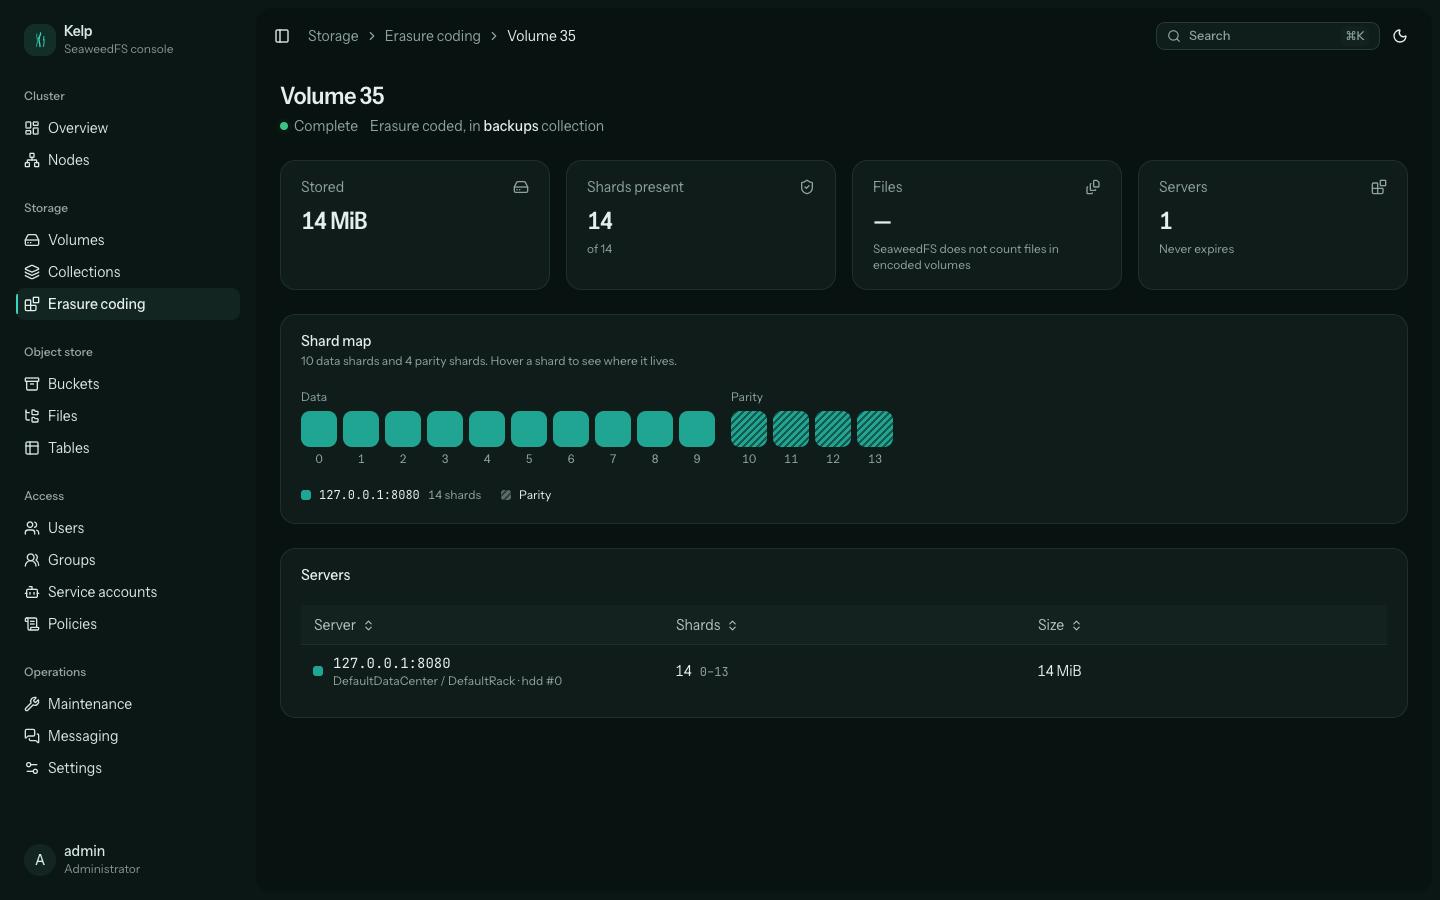
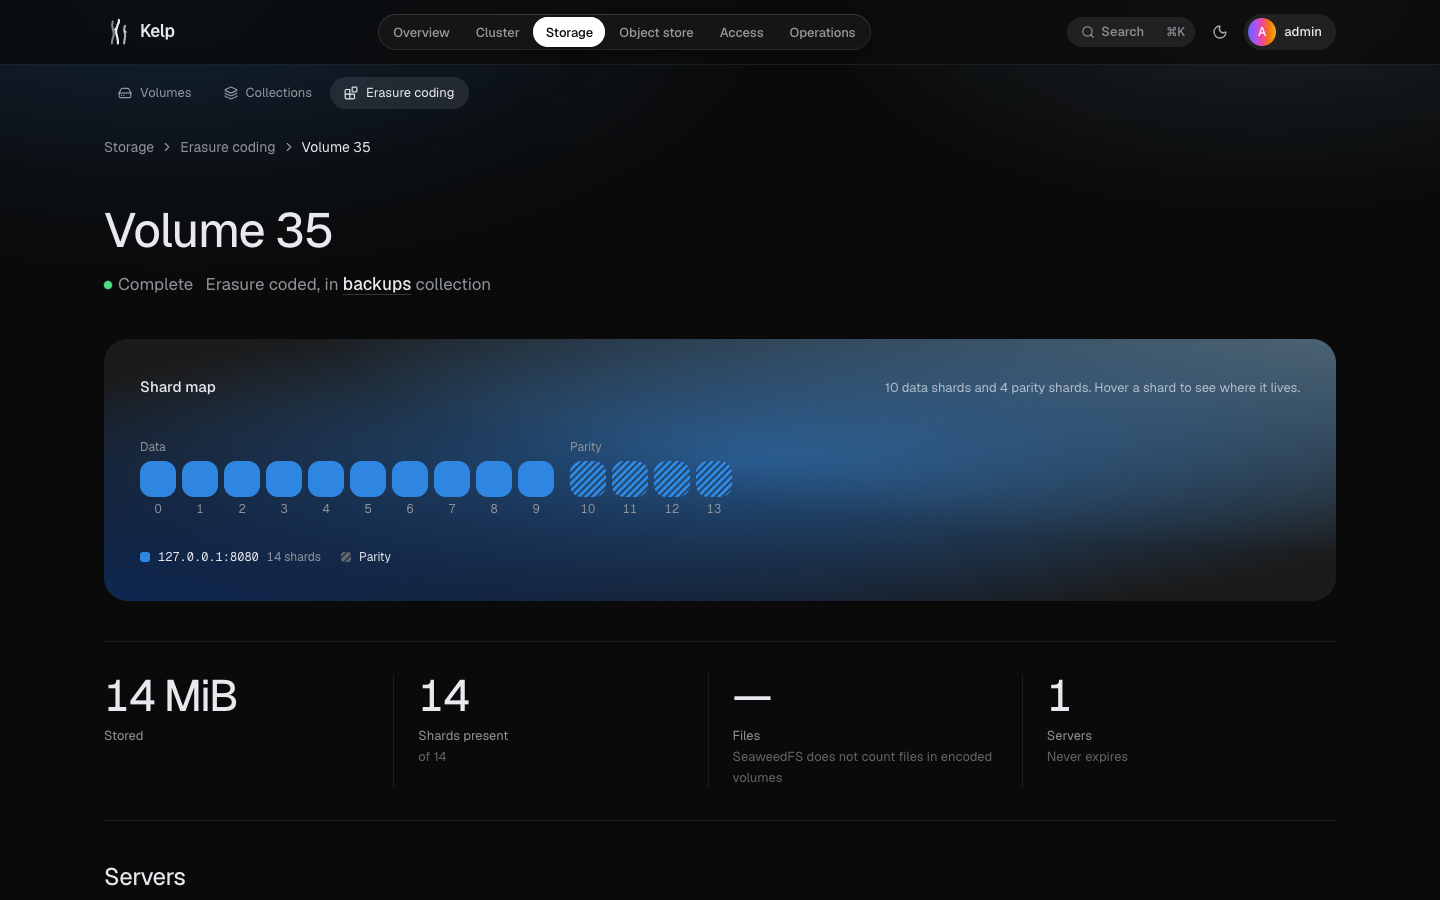
docs: new screenshots and a pointer to DESIGN.md

diff --git a/README.md b/README.md
@@ -17,7 +17,7 @@
 
 ![Kelp overview in the dark theme](docs/screenshots/overview.png)
 
-Kelp manages a SeaweedFS cluster without changing it. It drives the native admin API, the master, the filer and their gRPC services, and adds what the built-in pages lack: one consistent design, sign-in with read-only accounts, safer destructive actions, skeleton loading, light and dark themes, and pages that explain what they show.
+Kelp manages a SeaweedFS cluster without changing it. It drives the native admin API, the master, the filer and their gRPC services, and adds what the built-in pages lack: a design of its own (monochrome, with one aurora color per area; see [DESIGN.md](DESIGN.md)), sign-in with read-only accounts, safer destructive actions, skeleton loading, light and dark themes, and pages that explain what they show.
 
 ## What you can do
 
@@ -38,12 +38,12 @@ Kelp manages a SeaweedFS cluster without changing it. It drives the native admin
     <td><img src="docs/screenshots/erasure-coding.png" alt="Shard map of an erasure-coded volume"></td>
   </tr>
   <tr>
-    <td><img src="docs/screenshots/files.png" alt="File browser with an image preview"></td>
+    <td><img src="docs/screenshots/files.png" alt="File browser with an image preview, light theme"></td>
     <td><img src="docs/screenshots/table.png" alt="Iceberg table schema"></td>
   </tr>
   <tr>
     <td><img src="docs/screenshots/maintenance.png" alt="Maintenance job types"></td>
-    <td><img src="docs/screenshots/user.png" alt="A user's keys, groups and policies"></td>
+    <td><img src="docs/screenshots/user.png" alt="A user's keys, groups and policies, light theme"></td>
   </tr>
 </table>
 
@@ -137,6 +137,7 @@ src/            React 19, TanStack Router and Query, Tailwind 4, Base UI, motion
   components/   kelp/ is Kelp's own; ui/, reui/ and react-bits/ are vendored registries
 fixtures/       Real responses captured from SeaweedFS 4.52, used by the unit tests
 e2e/            Playwright specs
+DESIGN.md       Kelp's design system: color, type, components, layout and motion
 scripts/        Local stack, seed data, review environment, releases
 ```
 
